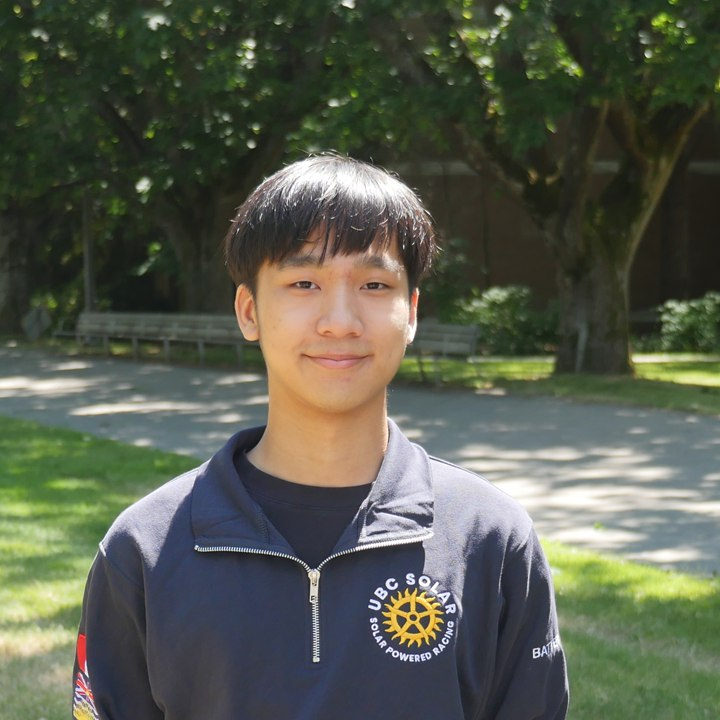
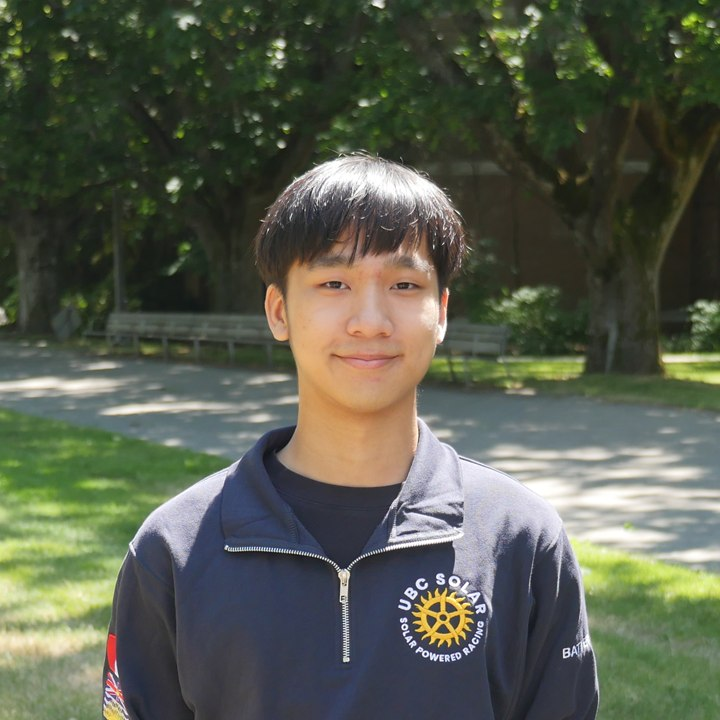
Update: Website Format

diff --git a/site-data.js b/site-data.js
@@ -1,6 +1,7 @@
 /*
  * Edit this file to update the project carousel, detail modal, and skills loop.
- * Keep media in /assets and use relative paths such as assets/project-01.jpg.
+ * Keep media in /assets. Each project has one carousel cover and a separate
+ * gallery containing any number of detail images.
  */
 window.PORTFOLIO_DATA = {
   skills: [
@@ -26,10 +27,17 @@ window.PORTFOLIO_DATA = {
       title: "Driver Dashboard",
       category: "PCB/Electronics Design",
       year: "2025-2026",
-      image: "assets/Dashboard_Integration.png",
+      coverImage: "assets/Dashboard_Integration.png",
+      coverAlt: "Driver Dashboard prototype integrated with its steering controls",
+      gallery: [
+        {
+          src: "assets/Dashboard_Integration.png",
+          alt: "Driver Dashboard prototype integrated with its steering controls",
+          caption: "Driver Dashboard integration test",
+        },
+      ],
       modelFile: "assets/models/E_PAS_DRD_2.0.glb",
       stepFile: "",
-      alt: "Solar energy electronics prototype on a lab bench",
       summary:
           "The Driver Dashboard PCB was designed for UBC Solar’s race car as the primary interface between the driver and the vehicle’s low-voltage electrical system.\n\nUnlike most other boards in the car, the Driver Dashboard directly interacts with the driver through physical switches, LEDs, and an LCD display. It allows the driver to control important vehicle functions, including drive states, motor power modes, lighting systems, and audio features. It also displays real-time information such as vehicle speed, active drive state, selected power mode, battery-pack status, and system faults.\n\nWithin the vehicle architecture, the Driver Dashboard acts as the central driver-interface and control board for the low-voltage system. It exchanges CAN messages with the battery management system, motor-control electronics, telemetry system, solar-array electronics, and other vehicle PCBs. These messages allow the dashboard to receive diagnostic information, communicate driver commands, identify faults, and provide the pit crew with real-time vehicle data during competition.",
       tags: ["Altium Designer", "PCB Design", "UBC Solar Car"],
@@ -47,9 +55,16 @@ window.PORTFOLIO_DATA = {
       title: "Project Two",
       category: "Embedded Systems",
       year: "Add year",
-      image: "assets/project-02.jpg",
+      coverImage: "assets/project-02.jpg",
+      coverAlt: "Embedded electronics prototype with a sensor module",
+      gallery: [
+        {
+          src: "assets/project-02.jpg",
+          alt: "Embedded electronics prototype with a sensor module",
+          caption: "",
+        },
+      ],
       stepFile: "",
-      alt: "Embedded electronics prototype with a sensor module",
       summary:
         "Use this entry for a course project, design team contribution, or personal build.",
       tags: ["Add technology", "Add skill"],
@@ -67,9 +82,16 @@ window.PORTFOLIO_DATA = {
       title: "Project Three",
       category: "Testing & Validation",
       year: "Add year",
-      image: "assets/project-03.jpg",
+      coverImage: "assets/project-03.jpg",
+      coverAlt: "Electronics testing setup with an oscilloscope",
+      gallery: [
+        {
+          src: "assets/project-03.jpg",
+          alt: "Electronics testing setup with an oscilloscope",
+          caption: "",
+        },
+      ],
       stepFile: "",
-      alt: "Electronics testing setup with an oscilloscope",
       summary:
         "Add another project with a clear problem, process, technical contribution, and result.",
       tags: ["Add technology", "Add skill"],

diff --git a/script.js b/script.js
@@ -136,6 +136,10 @@ function wrappedOffset(index) {
   return offset;
 }
 
+function projectCover(project) {
+  return project.coverImage || project.image || project.gallery?.[0]?.src || "";
+}
+
 function projectCard(project, index) {
   const button = document.createElement("button");
   button.className = "project-card";
@@ -143,7 +147,7 @@ function projectCard(project, index) {
   button.dataset.index = String(index);
   button.setAttribute("aria-label", `Open ${project.title}`);
   button.innerHTML = `
-    <img src="${project.image}" alt="" draggable="false" />
+    <img src="${projectCover(project)}" alt="" draggable="false" />
     <span class="project-card-label">
       <span>${project.category}</span>
       <strong>${project.title}</strong>
@@ -348,7 +352,8 @@ if (skills.length) {
 
 const dialog = document.querySelector("#project-dialog");
 const dialogClose = document.querySelector("#dialog-close");
-const dialogImage = document.querySelector("#dialog-image");
+const dialogImageSection = document.querySelector(".dialog-image-section");
+const dialogGallery = document.querySelector("#dialog-gallery");
 const dialogCategory = document.querySelector("#dialog-category");
 const dialogTitle = document.querySelector("#dialog-title");
 const dialogSummary = document.querySelector("#dialog-summary");
@@ -364,9 +369,47 @@ function configureDialogLink(link, url) {
   if (url) link.href = url;
 }
 
+function galleryItems(project) {
+  if (project.gallery?.length) return project.gallery;
+  const coverImage = projectCover(project);
+  if (!coverImage) return [];
+  return [
+    {
+      src: coverImage,
+      alt: project.coverAlt || project.alt || `${project.title} project image`,
+      caption: "",
+    },
+  ];
+}
+
+function renderProjectGallery(project) {
+  const items = galleryItems(project);
+  dialogImageSection.hidden = items.length === 0;
+  dialogGallery.replaceChildren(
+    ...items.map((item) => {
+      const figure = document.createElement("figure");
+      figure.className = "dialog-gallery-item";
+
+      const image = document.createElement("img");
+      image.src = item.src;
+      image.alt = item.alt || `${project.title} project image`;
+      image.loading = "lazy";
+      image.decoding = "async";
+      figure.appendChild(image);
+
+      if (item.caption) {
+        const caption = document.createElement("figcaption");
+        caption.textContent = item.caption;
+        figure.appendChild(caption);
+      }
+
+      return figure;
+    }),
+  );
+}
+
 function openProject(project) {
-  dialogImage.src = project.image;
-  dialogImage.alt = project.alt;
+  renderProjectGallery(project);
   dialogCategory.textContent = `${project.category} | ${project.year}`;
   dialogTitle.textContent = project.title;
   dialogSummary.textContent = project.summary;

diff --git a/index.html b/index.html
@@ -22,7 +22,7 @@
       href="https://fonts.googleapis.com/css2?family=DM+Mono:wght@400;500&family=Manrope:wght@400;500;600;700&display=swap"
       rel="stylesheet"
     />
-    <link rel="stylesheet" href="styles.css?v=8" />
+    <link rel="stylesheet" href="styles.css?v=9" />
     <script type="importmap">
       {
         "imports": {
@@ -31,8 +31,8 @@
         }
       }
     </script>
-    <script src="site-data.js?v=7" defer></script>
-    <script src="script.js?v=6" defer></script>
+    <script src="site-data.js?v=8" defer></script>
+    <script src="script.js?v=7" defer></script>
     <script type="module" src="step-viewer.js?v=8"></script>
   </head>
   <body>
@@ -447,11 +447,9 @@
         <section class="dialog-image-section" aria-labelledby="dialog-image-section-title">
           <div class="dialog-image-heading">
             <p class="project-category">Gallery</p>
-            <h3 id="dialog-image-section-title">Project image</h3>
+            <h3 id="dialog-image-section-title">Project gallery</h3>
           </div>
-          <figure class="dialog-media">
-            <img id="dialog-image" src="" alt="" />
-          </figure>
+          <div class="dialog-gallery" id="dialog-gallery"></div>
         </section>
       </div>
     </dialog>

diff --git a/styles.css b/styles.css
@@ -1214,19 +1214,40 @@ a {
   font-size: 24px;
 }
 
-.dialog-media {
-  aspect-ratio: 16 / 9;
+.dialog-gallery {
+  display: grid;
+  grid-template-columns: repeat(2, minmax(0, 1fr));
+  gap: 16px;
+}
+
+.dialog-gallery-item {
   margin: 0;
+  border: 1px solid var(--line);
   border-radius: 6px;
-  background: var(--ink);
+  background: #e8edf0;
   overflow: hidden;
 }
 
-.dialog-media img {
+.dialog-gallery-item:first-child {
+  grid-column: 1 / -1;
+}
+
+.dialog-gallery-item img {
   display: block;
-  width: 100%;
-  height: 100%;
-  object-fit: cover;
+  width: auto;
+  max-width: 100%;
+  max-height: 760px;
+  height: auto;
+  margin: 0 auto;
+  object-fit: contain;
+}
+
+.dialog-gallery-item figcaption {
+  padding: 11px 13px;
+  border-top: 1px solid var(--line);
+  color: var(--muted);
+  background: var(--paper-bright);
+  font-size: 13px;
 }
 
 .tag-list {
@@ -1789,8 +1810,12 @@ a {
     padding: 0 24px 32px;
   }
 
-  .dialog-media {
-    aspect-ratio: 4 / 3;
+  .dialog-gallery {
+    grid-template-columns: 1fr;
+  }
+
+  .dialog-gallery-item:first-child {
+    grid-column: auto;
   }
 
   .dialog-links {

diff --git a/posts/post-template.html b/posts/post-template.html
@@ -11,7 +11,7 @@
       href="https://fonts.googleapis.com/css2?family=DM+Mono:wght@400;500&family=Manrope:wght@400;500;600;700&display=swap"
       rel="stylesheet"
     />
-    <link rel="stylesheet" href="../styles.css?v=8" />
+    <link rel="stylesheet" href="../styles.css?v=9" />
   </head>
   <body>
     <a class="skip-link" href="#main-content">Skip to content</a>

diff --git a/blog.html b/blog.html
@@ -14,7 +14,7 @@
       href="https://fonts.googleapis.com/css2?family=DM+Mono:wght@400;500&family=Manrope:wght@400;500;600;700&display=swap"
       rel="stylesheet"
     />
-    <link rel="stylesheet" href="styles.css?v=8" />
+    <link rel="stylesheet" href="styles.css?v=9" />
   </head>
   <body>
     <a class="skip-link" href="#main-content">Skip to content</a>

diff --git a/README.md b/README.md
@@ -44,9 +44,29 @@ Project content is stored in `site-data.js`. Each project has:
 - Challenge, approach, and outcome
 - Optional live-project and GitHub URLs
 
-Project images use `assets/project-01.jpg`, `assets/project-02.jpg`, and
-`assets/project-03.jpg`. Replace the generated placeholders while keeping the same
-filenames, or update the image paths in `site-data.js`.
+Each project uses separate carousel and gallery fields in `site-data.js`:
+
+```js
+coverImage: "assets/my-project-cover.jpg",
+coverAlt: "Short description of the cover image",
+gallery: [
+  {
+    src: "assets/my-project-photo-01.jpg",
+    alt: "Accessible description of the first project photo",
+    caption: "Optional caption",
+  },
+  {
+    src: "assets/my-project-photo-02.jpg",
+    alt: "Accessible description of the second project photo",
+    caption: "",
+  },
+],
+```
+
+`coverImage` is the single image shown in the rotating project carousel. Add as
+many entries as needed to `gallery`; those images appear only inside the project
+details. The cover can also be included in the gallery when you want it shown in
+both places.
 
 The project carousel supports:
 
